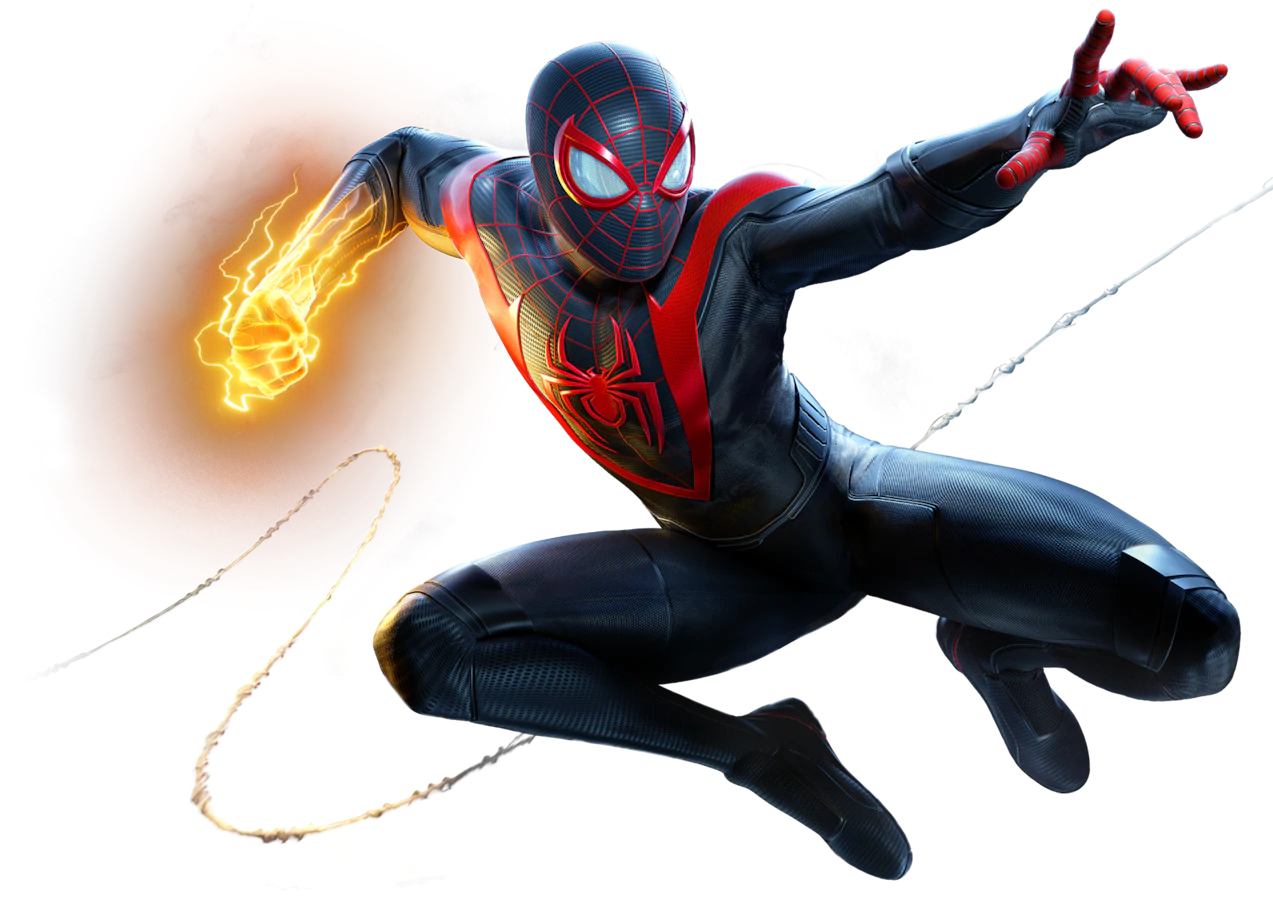
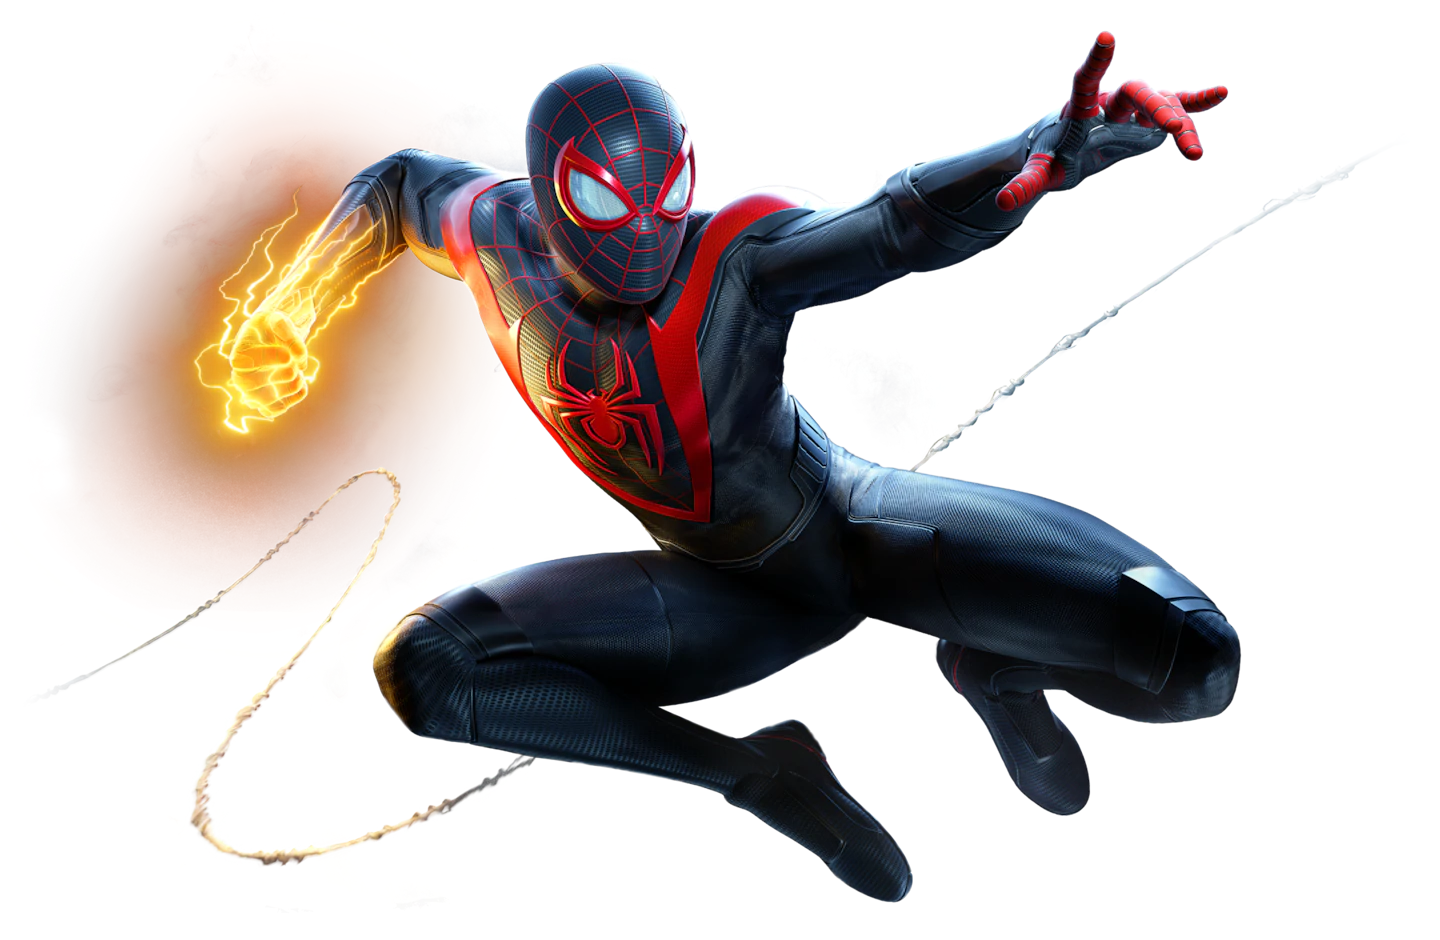
detalhes

diff --git a/index.html b/index.html
@@ -62,7 +62,8 @@
             </div>
 
             <p class="my-1">
-                Lorem ipsum dolor sit amet, consectetur adipiscing elit. Iaculis velit magna vitae mauris orci fames posuere nibh. Sit tellus amet facilisi sit odio pulvinar scelerisque quam et. Ultrices facilisis nunc massa diam, quis mi imperdiet. 
+                Lorem ipsum dolor sit amet, consectetur adipiscing elit. Iaculis velit magna vitae mauris orci fames posuere nibh. Sit tellus amet facilisi sit odio pulvinar scelerisque quam et. Ultrices facilisis nunc massa diam, quis mi imperdiet.<br>
+                <strong>Maked by Ant.Davi </strong>
             </p>
 
             <div class="buttons">
@@ -81,8 +82,5 @@
             alt="Spider-Man Miles Morales">
         </div>
     </section>
-
-    
-
 </body>
 </html>

diff --git a/css/styles.css b/css/styles.css
@@ -91,7 +91,7 @@ footer {
 }
 
 .spiderman {
-  width: 110%;
+  width: 130%;
   -webkit-transform: translate3d(-150px, -50px, 0);
           transform: translate3d(-150px, -50px, 0);
 }

diff --git a/css/partials/_layout.scss b/css/partials/_layout.scss
@@ -30,7 +30,7 @@
 }
 
 .spiderman {
-    width: 110%;
+    width: 130%;
     transform: translate3d(-150px,-50px,0);
 
     @include responsive() {
